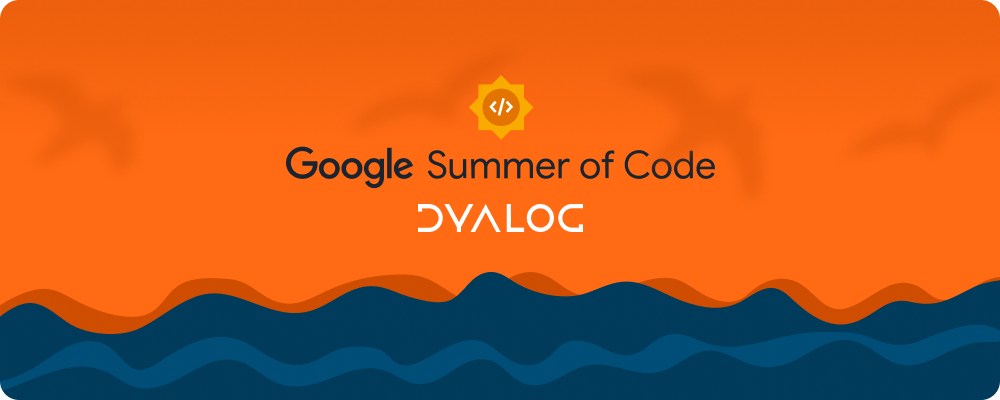
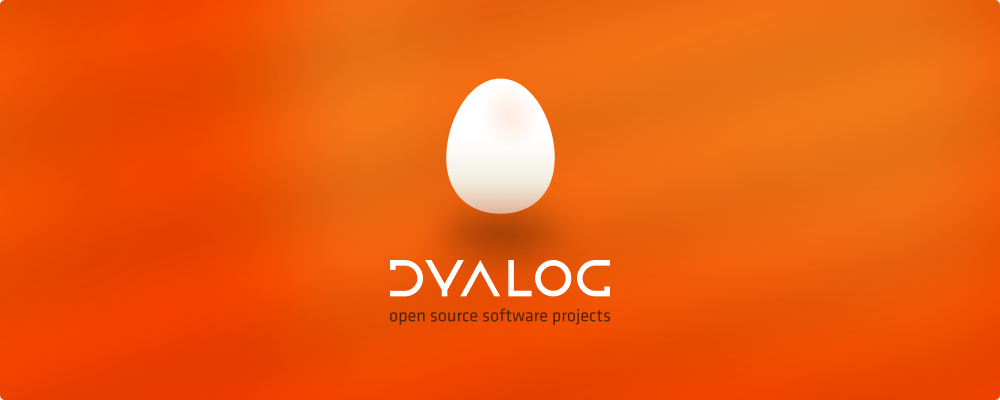
Website revamp for OSS Projects (#15)

diff --git a/README.md b/README.md
@@ -4,7 +4,7 @@
 <link rel="apple-touch-icon" sizes="180x180" href="/apple-touch-icon.png" />
 <link rel="manifest" href="./assets/site.webmanifest" />
 
-![GSOCxDyalog Banner](./assets/banner.png)
+![Dyalog OSS projects Banner](./assets/banner.png)
 
 ## About Dyalog
 
@@ -12,10 +12,16 @@ Dyalog delivers an APL-based development environment that allows both subject ma
 
 Learn more on the Dyalog [Homepage](https://www.dyalog.com) or check out the [Documentation](https://help.dyalog.com).
 
+## What exactly is open source?
+
+"Open source" refers to software whose design and source code are publicly accessible, allowing anyone to study, modify, and share it. Open source fosters collaboration, transparency, and wider community participation in building and improving technology.
+
+At Dyalog, we are committed to supporting the open source community. By making more of our tools available as open source, we hope to invite more people to contribute, innovate, and help shape the future of APL together.
+
 ## Discussions and Community  
 
 ### Community Discussion Channels  
-- **[GitHub Discussions](https://github.com/Dyalog/GSOC/discussions)**: Participate in structured discussions about GSoC projects, share your ideas, and engage with mentors and peers.  
+- **[GitHub Discussions](https://github.com/Dyalog/GSOC/discussions)**: Participate in structured discussions about the projects, share your ideas, and engage with mentors and peers.  
 - **[APL Orchard](https://apl.chat)**: A chat room dedicated to learn and teach APL, and to ask and answer questions about both golfing and general coding in APL. 
 
 ## Learn Dyalog APL
@@ -27,11 +33,11 @@ Whether you're new to APL or an experienced programmer looking to master Dyalog,
 
 Join the vibrant APL community at APL Orchard to connect with enthusiasts and mentors!
 
-# Project list for GSoC 2025
+# Project list
 
 ## Project Ideas from the community
 
-Do you have an idea for a project that could work within Summer of Code, but is not on our list? Great! 💡
+Do you have an idea for a project that you or someone should work on, but is not on our list? Great! 💡
 
 We have made a [discussion](https://github.com/Dyalog/GSOC/discussions/6) just for that, so we can comment and help you finalise it. Feel free to provide as much information as possible and then we'll look forward to connecting with you in this discussion
 
